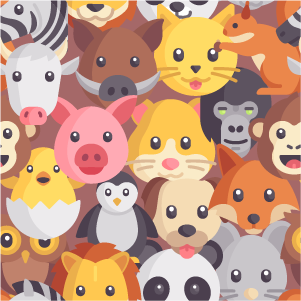
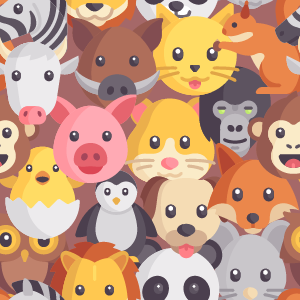
Background con densidad de pixeles optimizado

diff --git a/index.html b/index.html
@@ -6,8 +6,8 @@
     <title>Tarjetas</title>
     <link href="https://fonts.googleapis.com/css?family=Archivo|Archivo+Narrow:600" rel="stylesheet"/>
     <link href="https://fonts.googleapis.com/css?family=Montserrat:200,600&display=swap" rel="stylesheet">
-    <link href="tarjetas.css?t=50" rel="stylesheet">
-    <link href="site.css?t=51" rel="stylesheet" />
+    <link href="tarjetas.css?t=53" rel="stylesheet">
+    <link href="site.css?t=53" rel="stylesheet" />
   </head>
   <body id="body" class="bg-body">
     <header>
@@ -31,13 +31,13 @@
       </div>
     </main>
 
-    <script src="js/variables-globales.js?t=50" async defer></script>
-    <script src="js/baraja-reparte.js?t=50" async defer></script>
-    <script src="js/descubrir-comparar.js?t=50" async defer></script>
-    <script src="js/acierto-error.js?t=50" async defer></script>
-    <script src="js/cronometro-temporizador.js?t=50" async defer></script>
-    <script src="js/contador-movimientos.js?t=50" async defer></script>
-    <script src="js/finalizar.js?t=50" async defer></script>
-    <script src="js/iniciar.js?t=50" async defer></script>
+    <script src="js/variables-globales.js?t=53" async defer></script>
+    <script src="js/baraja-reparte.js?t=53" async defer></script>
+    <script src="js/descubrir-comparar.js?t=53" async defer></script>
+    <script src="js/acierto-error.js?t=53" async defer></script>
+    <script src="js/cronometro-temporizador.js?t=53" async defer></script>
+    <script src="js/contador-movimientos.js?t=53" async defer></script>
+    <script src="js/finalizar.js?t=53" async defer></script>
+    <script src="js/iniciar.js?t=53" async defer></script>
   </body>
 </html>

diff --git a/site.css b/site.css
@@ -16,19 +16,12 @@ body {
 }
 
 .bg-body {
-  background-image: url(img/animals-2.png);
+  background-image: url(img/animals.png);
   background-size: 300px;
 }
 
-/* @media screen and (max-width: 400px){
-  .bg-body {
-    background-size: 300px;
-    background-image: url(img/animals-2.png) !important;
-  }
-} */
-
 @media screen and (min-resolution: 2dppx) {
-  body {
-    background:red;
+  .bg-body {
+    background-image: url(img/animals@2x.png);
   }
 }
